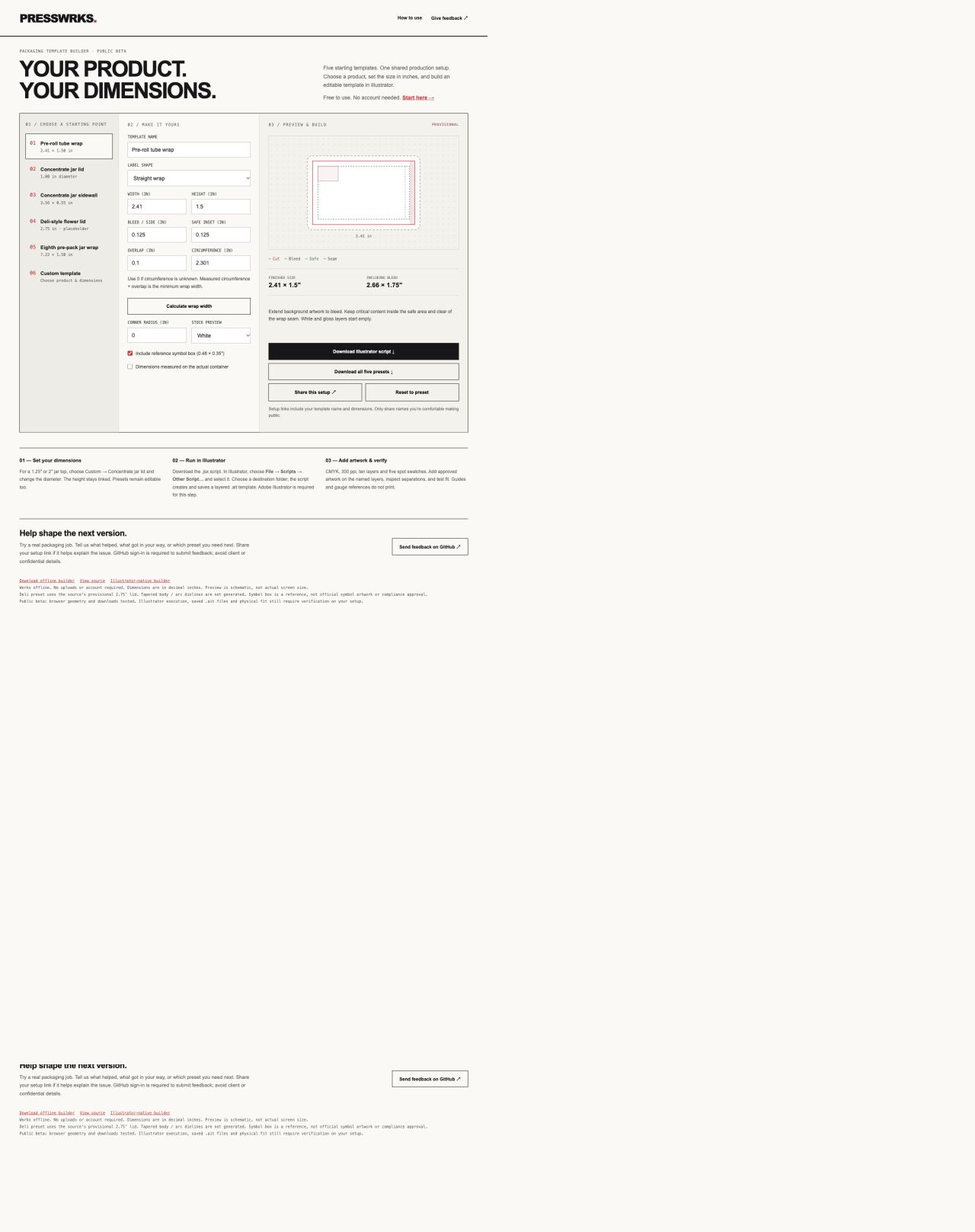
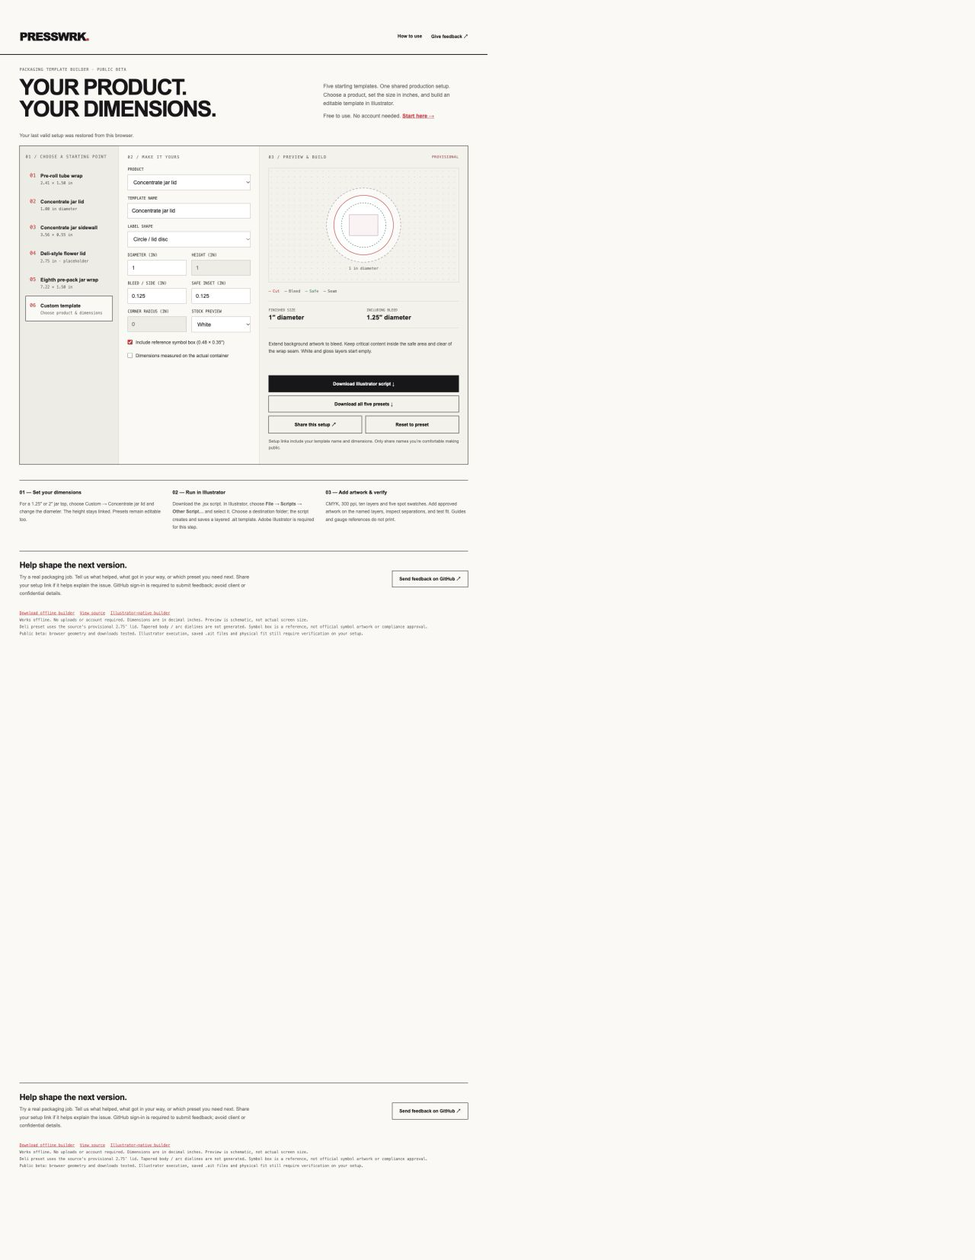
Correct displayed brand to PRESSWRK and refresh release previews

diff --git a/src/page.html b/src/page.html
@@ -1,8 +1,8 @@
-<!doctype html><html lang="en"><head><meta charset="utf-8"><meta name="viewport" content="width=device-width,initial-scale=1"><link rel="icon" href="/favicon.svg" type="image/svg+xml"><title>PRESSWRKS. — Packaging Template Builder</title>
+<!doctype html><html lang="en"><head><meta charset="utf-8"><meta name="viewport" content="width=device-width,initial-scale=1"><link rel="icon" href="/favicon.svg" type="image/svg+xml"><title>PRESSWRK. — Packaging Template Builder</title>
 <meta name="description" content="Build editable Illustrator packaging templates from five presets or your own dimensions. Preview cut, bleed and safe areas, then share your setup.">
 <meta name="theme-color" content="#faf9f6"><meta name="robots" content="index,follow,max-image-preview:large">
 <link rel="canonical" href="https://presswrks-template-builder.vercel.app/">
-<meta property="og:type" content="website"><meta property="og:site_name" content="PRESSWRKS."><meta property="og:title" content="Your product. Your dimensions. | PRESSWRKS.">
+<meta property="og:type" content="website"><meta property="og:site_name" content="PRESSWRK."><meta property="og:title" content="Your product. Your dimensions. | PRESSWRK.">
 <meta property="og:description" content="Five packaging presets, custom dimensions and editable Illustrator templates. Free to use in your browser.">
-<meta property="og:url" content="https://presswrks-template-builder.vercel.app/"><meta property="og:image" content="https://presswrks-template-builder.vercel.app/social-preview.png"><meta property="og:image:secure_url" content="https://presswrks-template-builder.vercel.app/social-preview.png"><meta property="og:image:type" content="image/png"><meta property="og:image:width" content="1200"><meta property="og:image:height" content="630"><meta property="og:image:alt" content="PRESSWRKS template builder showing packaging presets, editable dimensions and a live dieline preview.">
-<meta name="twitter:card" content="summary_large_image"><meta name="twitter:title" content="PRESSWRKS. — Packaging Template Builder"><meta name="twitter:description" content="Choose a preset, set your dimensions, and create an editable Illustrator template."><meta name="twitter:image" content="https://presswrks-template-builder.vercel.app/social-preview.png"><meta name="twitter:image:alt" content="PRESSWRKS template builder with dimensions and a live dieline preview."><style>__CSS__</style></head><body><a class="skip" href="#builder">Skip to template builder</a><header><a class="brand" href="./" aria-label="PRESSWRKS home">PRESSWRKS<span aria-hidden="true">.</span></a><div class="header-tools"><a href="#how">How to use</a><a href="#send-feedback">Give feedback ↗</a></div></header><div class="intro"><div><span class="release">Packaging template builder · Public beta</span><h1>Your product.<br>Your dimensions.</h1></div><div class="intro-copy"><p>Five starting templates. One shared production setup.<br>Choose a product, set the size in inches, and build an editable template in Illustrator.</p><p style="margin-top:10px">Free to use. No account needed. <a href="#how">Start here →</a></p></div></div><p id="session-status" class="status-line" role="status"></p><main id="builder" tabindex="-1" class="layout"><nav aria-label="Template presets"><div class="tag">01 / Choose a starting point</div><div id="presets" style="display:contents"></div></nav><section class="form"><div class="tag">02 / Make it yours</div><div id="customProduct" hidden><label for="product">PRODUCT</label><select id="product"></select></div><label for="name">TEMPLATE NAME</label><input id="name" maxlength="80"><label for="shape">LABEL SHAPE</label><select id="shape"><option value="circle">Circle / lid disc</option><option value="wrap">Straight wrap</option><option value="rectangle">Rectangle / flat label</option></select><div class="pair"><div><label id="widthLabel" for="w">WIDTH (IN)</label><input id="w" type="number" min="0.1" max="100" step="any"></div><div><label for="h">HEIGHT (IN)</label><input id="h" type="number" min="0.1" max="100" step="any"></div></div><div class="pair"><div><label for="bleed">BLEED / SIDE (IN)</label><input id="bleed" type="number" min="0.0625" max="1" step="any"></div><div><label for="safe">SAFE INSET (IN)</label><input id="safe" type="number" min="0" step="any"></div></div><div id="wrapFields"><div class="pair"><div><label for="overlap">OVERLAP (IN)</label><input id="overlap" type="number" step="any" min="0"></div><div><label for="circumference">CIRCUMFERENCE (IN)</label><input id="circumference" type="number" step="any" min="0"></div></div><p class="note">Use 0 if circumference is unknown. Measured circumference + overlap is the minimum wrap width.</p><button id="derive" class="secondary" type="button">Calculate wrap width</button></div><div class="pair"><div><label for="radius">CORNER RADIUS (IN)</label><input id="radius" type="number" min="0" step="any"></div><div><label for="stock">STOCK PREVIEW</label><select id="stock"><option>White</option><option>Clear</option><option>Black</option></select></div></div><label class="check"><input id="pdp" type="checkbox">Include reference symbol box (0.48 × 0.35″)</label><label class="check"><input id="measured" type="checkbox">Dimensions measured on the actual container</label></section><section class="preview"><div class="previewHead"><div class="tag">03 / Preview & build</div><span id="status" class="pill">PROVISIONAL</span></div><div class="canvas" id="preview" aria-label="Label geometry preview"></div><div class="legend"><span class="cut">Cut</span><span>Bleed</span><span class="safe">Safe</span><span>Seam</span></div><div class="stats"><div><small>FINISHED SIZE</small><b id="trimStat"></b></div><div><small>INCLUDING BLEED</small><b id="bleedStat"></b></div></div><p class="note" id="context"></p><p class="note error" role="alert" id="error"></p><div class="actions"><button class="primary" id="download">Download Illustrator script ↓</button><button class="secondary" id="all">Download all five presets ↓</button><div class="share-row"><button class="secondary" id="share" type="button">Share this setup ↗</button><button class="secondary" id="reset" type="button">Reset to preset</button></div><p class="share-note">Setup links include your template name and dimensions. Only share names you’re comfortable making public.</p><div id="share-output" class="share-output" hidden><label for="share-url">LINK TO THIS SETUP</label><input id="share-url" type="text" readonly><p class="share-note">Copy this link to share the exact setup.</p></div><p class="note" id="feedback" role="status" aria-live="polite"></p></div></section></main><section id="how" class="how" aria-label="How to use the builder"><div><h2>01 — Set your dimensions</h2><p>For a 1.25″ or 2″ jar top, choose Custom → Concentrate jar lid and change the diameter. The height stays linked. Presets remain editable too.</p></div><div><h2>02 — Run in Illustrator</h2><p>Download the .jsx script. In Illustrator, choose <b>File → Scripts → Other Script…</b> and select it. Choose a destination folder; the script creates and saves a layered .ait template. Adobe Illustrator is required for this step.</p></div><div><h2>03 — Add artwork & verify</h2><p>CMYK, 300 ppi, ten layers and five spot swatches. Add approved artwork on the named layers, inspect separations, and test fit. Guides and gauge references do not print.</p></div></section><section id="send-feedback" class="feedback-section"><div><h2>Help shape the next version.</h2><p>Try a real packaging job. Tell us what helped, what got in your way, or which preset you need next. Share your setup link if it helps explain the issue. GitHub sign-in is required to submit feedback; avoid client or confidential details.</p></div><a class="feedback-link" href="https://github.com/cannacre8ive/presswrks-template-builder/issues/new/choose" target="_blank" rel="noopener">Send feedback on GitHub ↗</a></section><footer><a href="https://presswrks-template-builder.vercel.app/PRESSWRKS-Template-Builder.html" download>Download offline builder</a><a href="https://github.com/cannacre8ive/presswrks-template-builder" target="_blank" rel="noopener">View source</a><a href="https://presswrks-template-builder.vercel.app/PRESSWRKS-Template-Builder.jsx" download>Illustrator-native builder</a><br>Works offline. No uploads or account required. Dimensions are in decimal inches. Preview is schematic, not actual screen size.<br>Deli preset uses the source's provisional 2.75″ lid. Tapered body / arc dielines are not generated. Symbol box is a reference, not official symbol artwork or compliance approval.<br>Public beta: browser geometry and downloads tested. Illustrator execution, saved .ait files and physical fit still require verification on your setup.</footer><script>__SCRIPT__</script></body></html>
+<meta property="og:url" content="https://presswrks-template-builder.vercel.app/"><meta property="og:image" content="https://presswrks-template-builder.vercel.app/social-preview.png"><meta property="og:image:secure_url" content="https://presswrks-template-builder.vercel.app/social-preview.png"><meta property="og:image:type" content="image/png"><meta property="og:image:width" content="1200"><meta property="og:image:height" content="630"><meta property="og:image:alt" content="PRESSWRK template builder showing packaging presets, editable dimensions and a live dieline preview.">
+<meta name="twitter:card" content="summary_large_image"><meta name="twitter:title" content="PRESSWRK. — Packaging Template Builder"><meta name="twitter:description" content="Choose a preset, set your dimensions, and create an editable Illustrator template."><meta name="twitter:image" content="https://presswrks-template-builder.vercel.app/social-preview.png"><meta name="twitter:image:alt" content="PRESSWRK template builder with dimensions and a live dieline preview."><style>__CSS__</style></head><body><a class="skip" href="#builder">Skip to template builder</a><header><a class="brand" href="./" aria-label="PRESSWRK home">PRESSWRK<span aria-hidden="true">.</span></a><div class="header-tools"><a href="#how">How to use</a><a href="#send-feedback">Give feedback ↗</a></div></header><div class="intro"><div><span class="release">Packaging template builder · Public beta</span><h1>Your product.<br>Your dimensions.</h1></div><div class="intro-copy"><p>Five starting templates. One shared production setup.<br>Choose a product, set the size in inches, and build an editable template in Illustrator.</p><p style="margin-top:10px">Free to use. No account needed. <a href="#how">Start here →</a></p></div></div><p id="session-status" class="status-line" role="status"></p><main id="builder" tabindex="-1" class="layout"><nav aria-label="Template presets"><div class="tag">01 / Choose a starting point</div><div id="presets" style="display:contents"></div></nav><section class="form"><div class="tag">02 / Make it yours</div><div id="customProduct" hidden><label for="product">PRODUCT</label><select id="product"></select></div><label for="name">TEMPLATE NAME</label><input id="name" maxlength="80"><label for="shape">LABEL SHAPE</label><select id="shape"><option value="circle">Circle / lid disc</option><option value="wrap">Straight wrap</option><option value="rectangle">Rectangle / flat label</option></select><div class="pair"><div><label id="widthLabel" for="w">WIDTH (IN)</label><input id="w" type="number" min="0.1" max="100" step="any"></div><div><label for="h">HEIGHT (IN)</label><input id="h" type="number" min="0.1" max="100" step="any"></div></div><div class="pair"><div><label for="bleed">BLEED / SIDE (IN)</label><input id="bleed" type="number" min="0.0625" max="1" step="any"></div><div><label for="safe">SAFE INSET (IN)</label><input id="safe" type="number" min="0" step="any"></div></div><div id="wrapFields"><div class="pair"><div><label for="overlap">OVERLAP (IN)</label><input id="overlap" type="number" step="any" min="0"></div><div><label for="circumference">CIRCUMFERENCE (IN)</label><input id="circumference" type="number" step="any" min="0"></div></div><p class="note">Use 0 if circumference is unknown. Measured circumference + overlap is the minimum wrap width.</p><button id="derive" class="secondary" type="button">Calculate wrap width</button></div><div class="pair"><div><label for="radius">CORNER RADIUS (IN)</label><input id="radius" type="number" min="0" step="any"></div><div><label for="stock">STOCK PREVIEW</label><select id="stock"><option>White</option><option>Clear</option><option>Black</option></select></div></div><label class="check"><input id="pdp" type="checkbox">Include reference symbol box (0.48 × 0.35″)</label><label class="check"><input id="measured" type="checkbox">Dimensions measured on the actual container</label></section><section class="preview"><div class="previewHead"><div class="tag">03 / Preview & build</div><span id="status" class="pill">PROVISIONAL</span></div><div class="canvas" id="preview" aria-label="Label geometry preview"></div><div class="legend"><span class="cut">Cut</span><span>Bleed</span><span class="safe">Safe</span><span>Seam</span></div><div class="stats"><div><small>FINISHED SIZE</small><b id="trimStat"></b></div><div><small>INCLUDING BLEED</small><b id="bleedStat"></b></div></div><p class="note" id="context"></p><p class="note error" role="alert" id="error"></p><div class="actions"><button class="primary" id="download">Download Illustrator script ↓</button><button class="secondary" id="all">Download all five presets ↓</button><div class="share-row"><button class="secondary" id="share" type="button">Share this setup ↗</button><button class="secondary" id="reset" type="button">Reset to preset</button></div><p class="share-note">Setup links include your template name and dimensions. Only share names you’re comfortable making public.</p><div id="share-output" class="share-output" hidden><label for="share-url">LINK TO THIS SETUP</label><input id="share-url" type="text" readonly><p class="share-note">Copy this link to share the exact setup.</p></div><p class="note" id="feedback" role="status" aria-live="polite"></p></div></section></main><section id="how" class="how" aria-label="How to use the builder"><div><h2>01 — Set your dimensions</h2><p>For a 1.25″ or 2″ jar top, choose Custom → Concentrate jar lid and change the diameter. The height stays linked. Presets remain editable too.</p></div><div><h2>02 — Run in Illustrator</h2><p>Download the .jsx script. In Illustrator, choose <b>File → Scripts → Other Script…</b> and select it. Choose a destination folder; the script creates and saves a layered .ait template. Adobe Illustrator is required for this step.</p></div><div><h2>03 — Add artwork & verify</h2><p>CMYK, 300 ppi, ten layers and five spot swatches. Add approved artwork on the named layers, inspect separations, and test fit. Guides and gauge references do not print.</p></div></section><section id="send-feedback" class="feedback-section"><div><h2>Help shape the next version.</h2><p>Try a real packaging job. Tell us what helped, what got in your way, or which preset you need next. Share your setup link if it helps explain the issue. GitHub sign-in is required to submit feedback; avoid client or confidential details.</p></div><a class="feedback-link" href="https://github.com/cannacre8ive/presswrks-template-builder/issues/new/choose" target="_blank" rel="noopener">Send feedback on GitHub ↗</a></section><footer><a href="https://presswrks-template-builder.vercel.app/PRESSWRKS-Template-Builder.html" download>Download offline builder</a><a href="https://github.com/cannacre8ive/presswrks-template-builder" target="_blank" rel="noopener">View source</a><a href="https://presswrks-template-builder.vercel.app/PRESSWRKS-Template-Builder.jsx" download>Illustrator-native builder</a><br>Works offline. No uploads or account required. Dimensions are in decimal inches. Preview is schematic, not actual screen size.<br>Deli preset uses the source's provisional 2.75″ lid. Tapered body / arc dielines are not generated. Symbol box is a reference, not official symbol artwork or compliance approval.<br>Public beta: browser geometry and downloads tested. Illustrator execution, saved .ait files and physical fit still require verification on your setup.</footer><script>__SCRIPT__</script></body></html>

diff --git a/src/app.js b/src/app.js
@@ -11,7 +11,7 @@ function shape(inset,stroke,dash,fill){return circle?`<circle cx="300" cy="160" 
 let svg=shape(-b,'#999','6 5','rgba(255,255,255,.6)')+shape(0,'#cf2c39','',c.stock==='Black'?'#262628':c.stock==='Clear'?'#dce5e577':'white')+shape(s,'#39776b','4 4','none');if(wrap){const sx=x+w-c.overlap*scale;svg+=`<rect x="${sx}" y="${y}" width="${c.overlap*scale}" height="${h}" fill="#cf2c3922"/><path d="M${sx},${y}v${h}" stroke="#cf2c39" stroke-dasharray="3 3"/><path d="M${sx-s},${y+s}v${h-2*s}" stroke="#39776b" stroke-dasharray="4 4"/>`;}
 if(c.pdp){const gx=circle?(W-0.48*scale)/2:x+s,gy=circle?(H-0.35*scale)/2:y+s;svg+=`<rect x="${gx}" y="${gy}" width="${0.48*scale}" height="${0.35*scale}" fill="#cf2c3910" stroke="#be7190"/>`;}
 svg+=`<text x="300" y="${y+h+b+23}" text-anchor="middle" fill="#696866" font-family="monospace" font-size="12">${f(c.w)} in${circle?' diameter':''}</text>`;$('preview').innerHTML=`<svg viewBox="0 0 600 320" role="img" aria-label="${f(c.w)} by ${f(c.h)} inch ${c.shape} label with bleed and safe guides">${svg}</svg>`;}
-function download(configs,name){const engine=PW_ENGINE;const runner='\n(function(){var configs='+JSON.stringify(configs)+';var folder=Folder.selectDialog("Choose where to save your PRESSWRKS templates");if(!folder)return;var done=0;try{for(var i=0;i<configs.length;i++){var d=PW.build(configs[i]);PW.save(d,configs[i],folder);if(configs.length>1)d.close(SaveOptions.DONOTSAVECHANGES);done++;}alert("Saved "+done+" template(s) to "+folder.fsName);}catch(e){alert("Saved "+done+" template(s). Error: "+e.message);}}());';const blob=new Blob(['#target illustrator\n'+engine+runner],{type:'text/plain'});const url=URL.createObjectURL(blob),a=document.createElement('a');a.href=url;a.download=name;document.body.append(a);a.click();a.remove();setTimeout(()=>URL.revokeObjectURL(url),1000);$('feedback').textContent='Downloaded. Run the .jsx in Illustrator via File → Scripts → Other Script…';}
+function download(configs,name){const engine=PW_ENGINE;const runner='\n(function(){var configs='+JSON.stringify(configs)+';var folder=Folder.selectDialog("Choose where to save your PRESSWRK templates");if(!folder)return;var done=0;try{for(var i=0;i<configs.length;i++){var d=PW.build(configs[i]);PW.save(d,configs[i],folder);if(configs.length>1)d.close(SaveOptions.DONOTSAVECHANGES);done++;}alert("Saved "+done+" template(s) to "+folder.fsName);}catch(e){alert("Saved "+done+" template(s). Error: "+e.message);}}());';const blob=new Blob(['#target illustrator\n'+engine+runner],{type:'text/plain'});const url=URL.createObjectURL(blob),a=document.createElement('a');a.href=url;a.download=name;document.body.append(a);a.click();a.remove();setTimeout(()=>URL.revokeObjectURL(url),1000);$('feedback').textContent='Downloaded. Run the .jsx in Illustrator via File → Scripts → Other Script…';}
 $('download').onclick=()=>{const c=read();if(!PW.validate(c))download([c],PW.filename(c).replace('.ait','.jsx'));};$('all').onclick=()=>download([0,1,2,3,4].map(PW.config),'PW_All_Five_Presets.jsx');$('product').onchange=()=>{const i=+$('product').value;load(i);if(i===5){$('product').value='5';}render();};$('derive').onclick=()=>{const c=read();if(!(c.circumference>0)||!(c.overlap>0)){$('error').textContent='Enter a positive measured circumference and overlap first.';return;}$('w').value=Math.ceil((c.circumference+c.overlap-1e-10)*100)/100;render();};document.querySelectorAll('.form input,.form select').forEach(e=>{if(e.id!=='product')e.addEventListener('input',render)});choose(0);
 
 const STORAGE_KEY='presswrks-template-builder-v1';

diff --git a/public/PRESSWRKS-Template-Builder.jsx b/public/PRESSWRKS-Template-Builder.jsx
@@ -1,5 +1,5 @@
 #target illustrator
-/* PRESSWRKS Template Builder v1. ES3-compatible Illustrator engine. */
+/* PRESSWRK Template Builder v1. ES3-compatible Illustrator engine. */
 var PW = (function () {
   var names = ['CUT','PERF','GUIDES','GAUGES','VARIABLE','COMPLIANCE','GLOSS','ART','WHITE','SUBSTRATE-SIM'];
   var products = ['Pre-roll tube wrap','Concentrate jar lid','Concentrate jar sidewall','Deli-style flower lid','Eighth pre-pack jar wrap','Other flat label'];
@@ -83,7 +83,7 @@ var PW = (function () {
   return {products:products,presets:presets,config:config,validate:validate,build:build,save:save,filename:filename};
 }());
 (function(){
- var win=new Window('dialog','PRESSWRKS - Illustrator Template Builder');win.orientation='column';win.alignChildren='fill';
+ var win=new Window('dialog','PRESSWRK - Illustrator Template Builder');win.orientation='column';win.alignChildren='fill';
  win.add('statictext',undefined,'Five source templates + custom sizes. All dimensions are inches.');
  var choices=[];for(var i=0;i<PW.presets.length;i++)choices.push(('0'+(i+1)).slice(-2)+'  '+PW.products[i]);choices.push('06  Custom template');
  var pick=win.add('dropdownlist',undefined,choices);pick.selection=0;

diff --git a/src/engine.js b/src/engine.js
@@ -1,4 +1,4 @@
-/* PRESSWRKS Template Builder v1. ES3-compatible Illustrator engine. */
+/* PRESSWRK Template Builder v1. ES3-compatible Illustrator engine. */
 var PW = (function () {
   var names = ['CUT','PERF','GUIDES','GAUGES','VARIABLE','COMPLIANCE','GLOSS','ART','WHITE','SUBSTRATE-SIM'];
   var products = ['Pre-roll tube wrap','Concentrate jar lid','Concentrate jar sidewall','Deli-style flower lid','Eighth pre-pack jar wrap','Other flat label'];

diff --git a/README.md b/README.md
@@ -1,6 +1,6 @@
-![PRESSWRKS. template builder](documentation/assets/desktop.png)
+![PRESSWRK. template builder](documentation/assets/desktop.png)
 
-# PRESSWRKS. — Packaging Template Builder
+# PRESSWRK. — Packaging Template Builder
 
 ## 🚀 Live Demo
 
@@ -51,14 +51,16 @@ All are editable. Generated documents target CMYK, 300 ppi, ten named layers, Cu
 
 ## Recent updates
 
-- 2026-09-28: Public beta release, stronger PRESSWRKS. wordmark with red period, setup-sharing links, local recall, reset, keyboard focus and feedback entry.
+- 2026-09-28: Brand corrected to **PRESSWRK.**; same public link.
+
+- 2026-09-28: Public beta release, stronger PRESSWRK. wordmark with red period, setup-sharing links, local recall, reset, keyboard focus and feedback entry.
 - Single-source generator, 24 automated geometry/sharing checks, repository documentation and real UI social preview.
 
 See [CHANGELOG.md](CHANGELOG.md), [TESTING.md](TESTING.md), and [ROADMAP.md](ROADMAP.md). The original browser builder is preserved with a checksum under `source/`. Original source notes are provenance, not release instructions.
 
 ## Sharing
 
-Suggested description: “PRESSWRKS. turns packaging dimensions into editable Illustrator templates. Try a preset or your own size, preview the geometry, and send feedback.”
+Suggested description: “PRESSWRK. turns packaging dimensions into editable Illustrator templates. Try a preset or your own size, preview the geometry, and send feedback.”
 
 Production: https://presswrks-template-builder.vercel.app/  
 Repository: https://github.com/cannacre8ive/presswrks-template-builder

diff --git a/documentation/PUBLISHING.md b/documentation/PUBLISHING.md
@@ -1,0 +1,11 @@
+# What release status means
+
+- **Saved (committed):** a named snapshot exists in Git history on the local computer.
+- **On GitHub (pushed):** that snapshot is uploaded to the repository.
+- **Live (deployed):** Vercel has published it and the stable public link has been verified.
+
+A commit ID is a version receipt, not an approval request. A local commit alone does not prove a push or deployment. Connected GitHub pushes trigger Vercel deployments, but the build and public page still need checking.
+
+Each update should finish with these three states and a working link. Use one commit for a small finished change when practical. More commits are normal for later fixes; the user does not need to approve every snapshot unless approval is explicitly requested.
+
+Git history preserves project files. It is separate from assistant memory. The Home library provides access to the project and should be updated when its name, status or public link changes. An idea mentioned in chat is not automatically a deployed feature.

diff --git a/documentation/RELEASE.md b/documentation/RELEASE.md
@@ -26,3 +26,7 @@ No claim of verified Illustrator runtime, native dialog behavior, `.ait` reopeni
 - Feedback link reaches GitHub sign-in with the correct issue-chooser return URL. No report submitted; signed-in issue-form submission is not tested.
 - Home library now opens the live tool and provides repository/offline links. A local OPEN-PRESSWRKS.webloc shortcut is also supplied outside this repository.
 
+
+## Branding correction — 2026-09-28
+
+Displayed brand corrected to PRESSWRK. with the red period retained. Existing repository/deployment URLs and download filenames stay compatible. Browser title, wordmark and accessibility name verified live. The existing 24 checks pass; production screenshots refreshed. This correction is grouped in one Git commit, pushed to main for automatic deployment.

diff --git a/DESIGN.md b/DESIGN.md
@@ -1,6 +1,6 @@
 # Design system
 
-Brand spelling is exactly **PRESSWRKS.** Red period retained. Wordmark uses Arial Black, Helvetica Neue, Arial, sans-serif, weight 950, 30px desktop / 26px mobile, -1.8px tracking. No remotely fetched font.
+Brand spelling is exactly **PRESSWRK.** Red period retained. Wordmark uses Arial Black, Helvetica Neue, Arial, sans-serif, weight 950, 30px desktop / 26px mobile, -1.8px tracking. No remotely fetched font.
 
 Palette: paper `#faf9f6`, ink `#171719`, red `#cf2c39`, muted `#696866`, borders `#d9d6d0`, preview ground `#f4f2ed`, safe guides `#39776b`, error `#ad1426`.
 

diff --git a/CHANGELOG.md b/CHANGELOG.md
@@ -1,5 +1,12 @@
 # Changelog
 
+## [1.1.2] — 2026-09-28
+
+### Changed
+- Corrected the displayed brand to PRESSWRK. across the wordmark, metadata, generated-script messaging and feedback forms. Retained the red period and existing public URLs/download filenames.
+- Refreshed live screenshots and social preview; documented saved, pushed and live release states.
+
+
 ## [1.1.1] — 2026-09-28
 
 ### Changed
